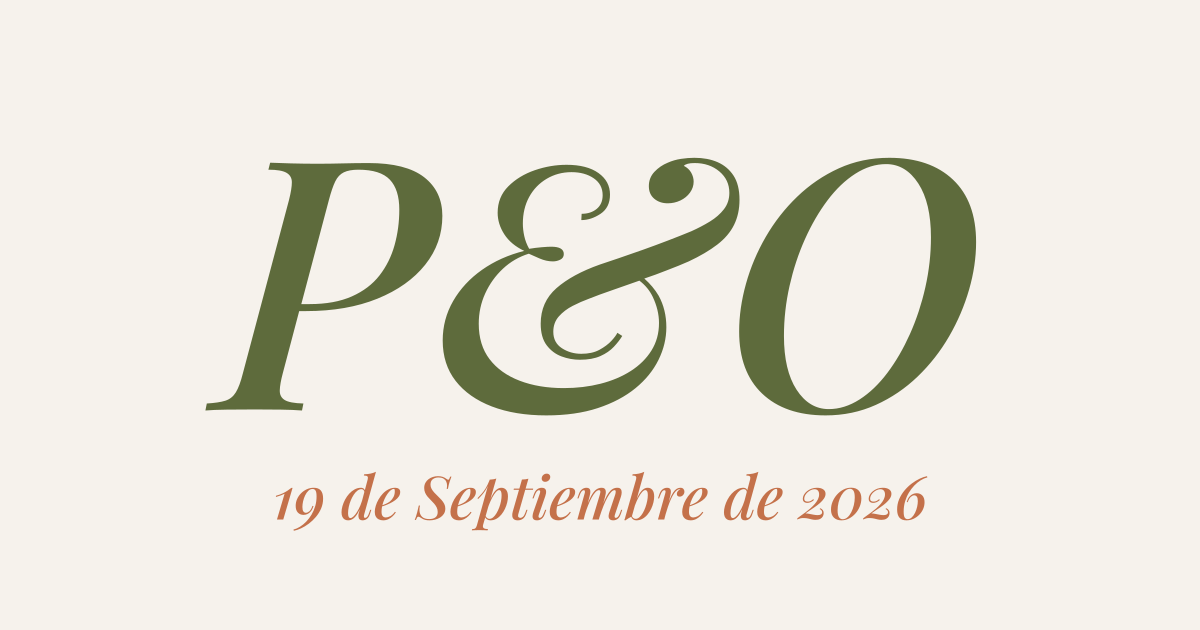
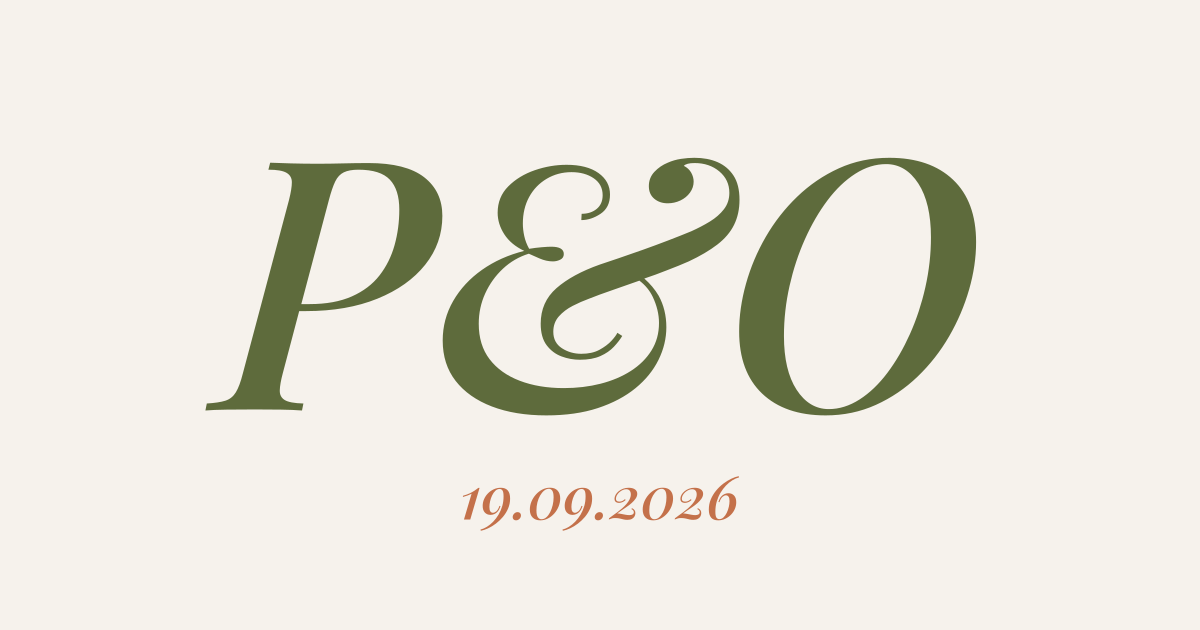
feat: update date format in OpenGraph image generation script.

Changed region(s): [[0.2158, 0.754, 0.7708, 0.8444]]

diff --git a/generate-icons.js b/generate-icons.js
@@ -80,7 +80,7 @@ async function createOgImage() {
 
         ctx.fillStyle = '#C4714A';
         ctx.font = `italic 500 60px "Playfair Display"`;
-        ctx.fillText('19 de Septiembre de 2026', width / 2, height / 2 + 180);
+        ctx.fillText('19.09.2026', width / 2, height / 2 + 180);
 
         const buffer = canvas.toBuffer('image/png');
         fs.writeFileSync(path.join(__dirname, 'public', 'opengraph-image.png'), buffer);
